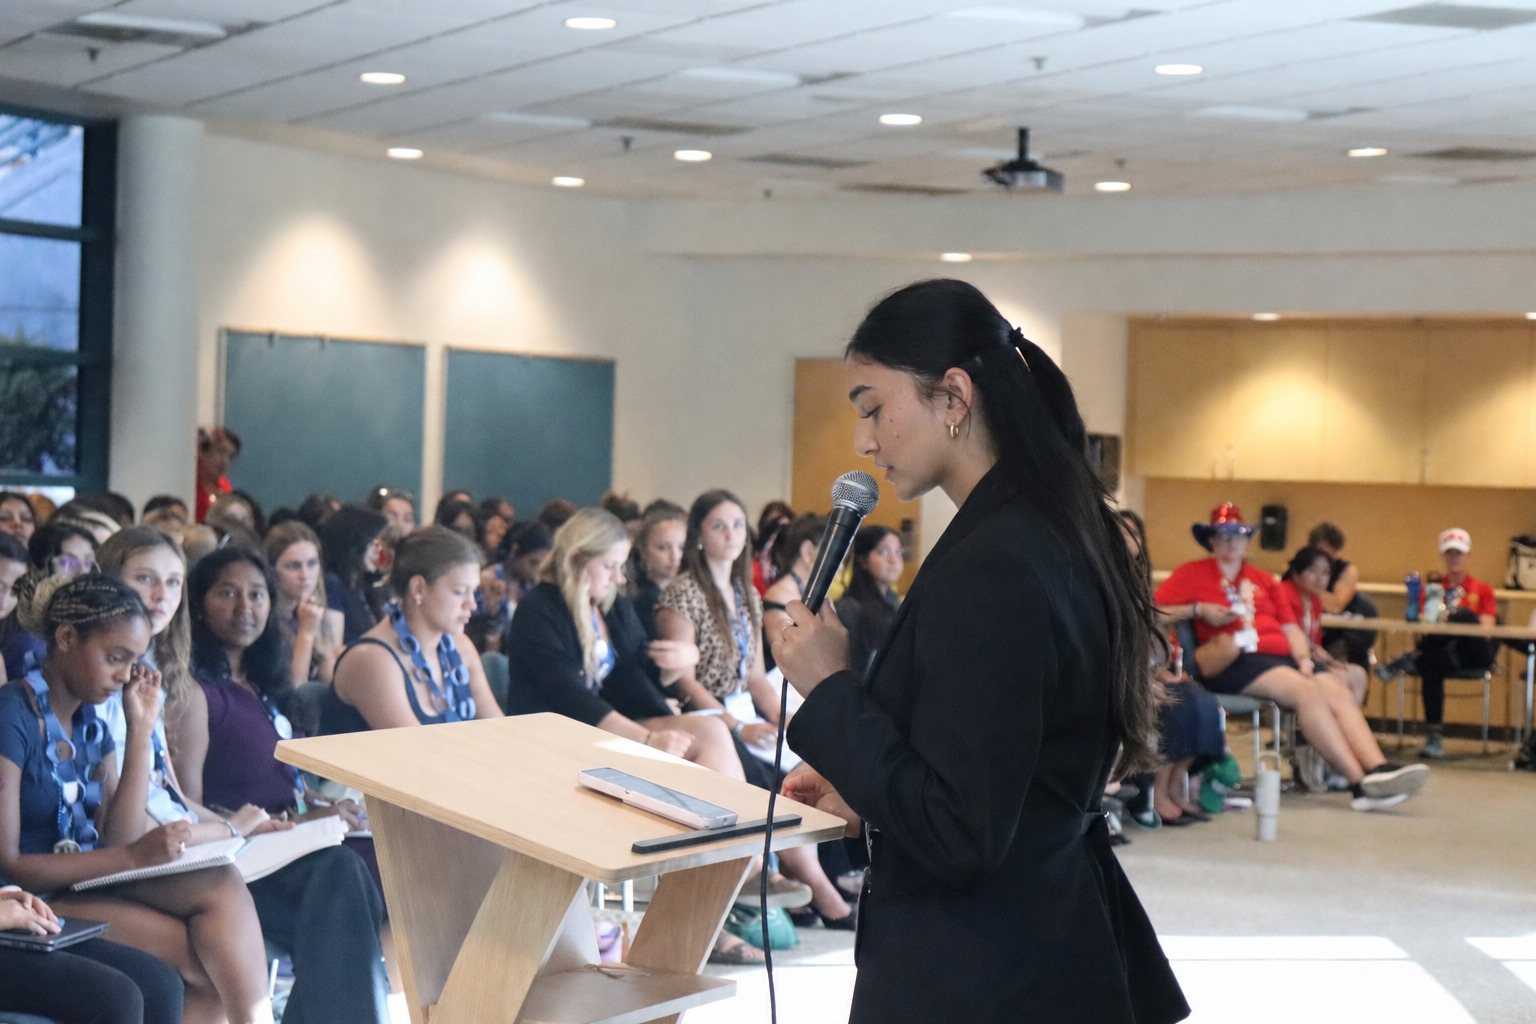
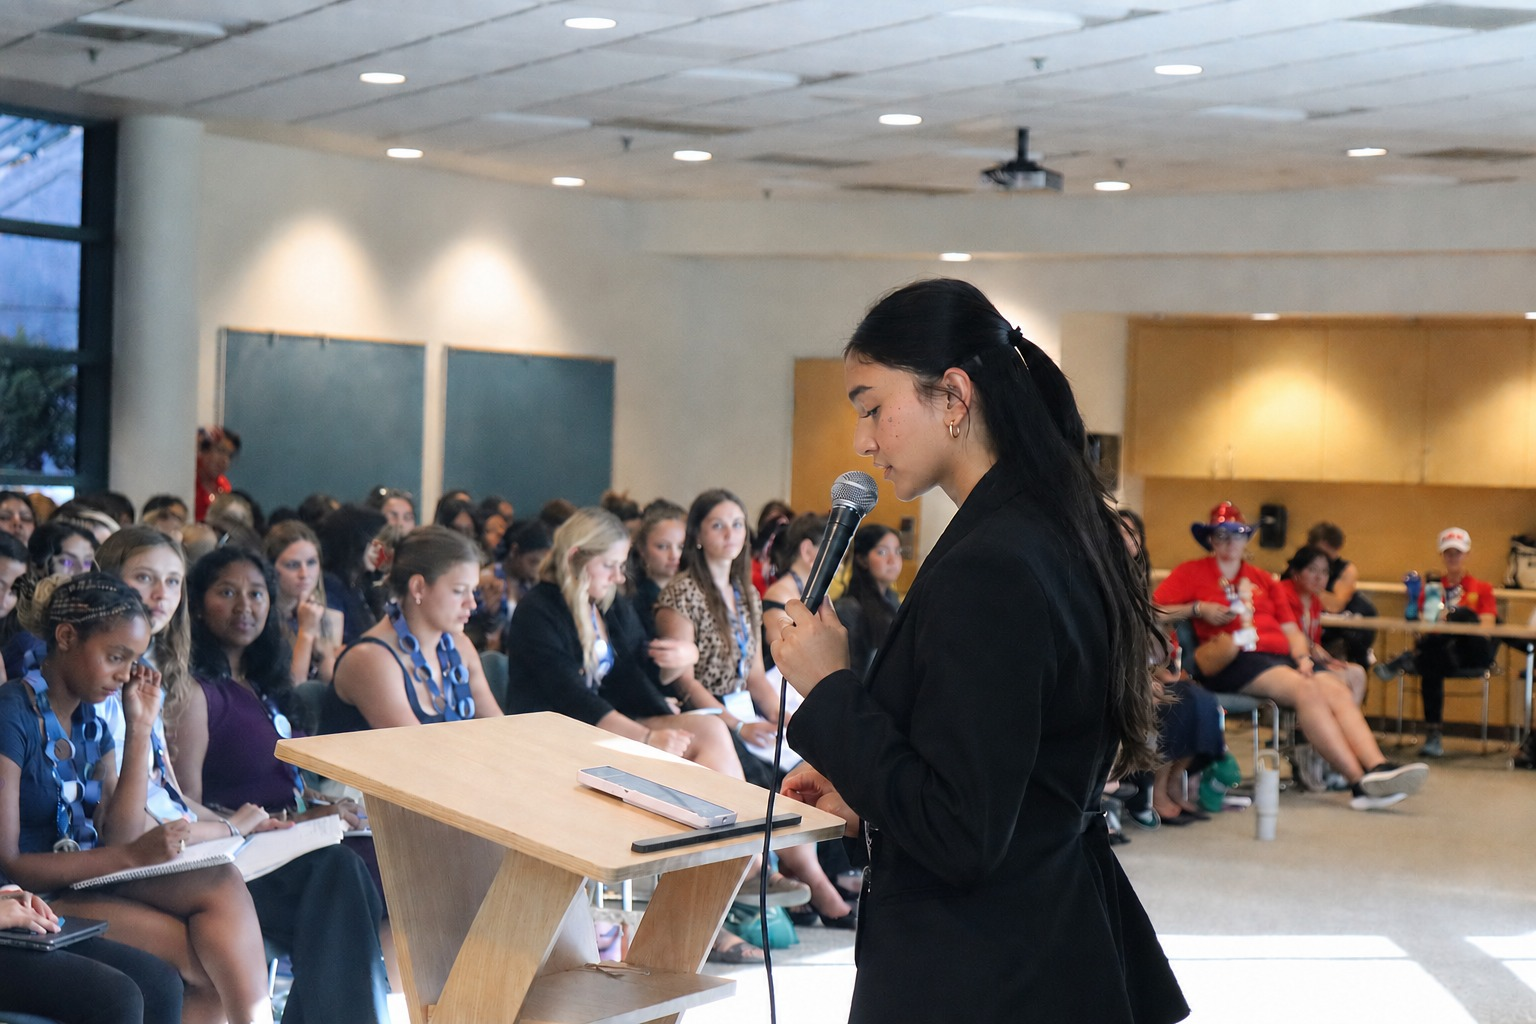
girls state final website v1

diff --git a/src/components/Positions.jsx b/src/components/Positions.jsx
@@ -30,8 +30,8 @@ export default function Positions() {
     city: {
       elected: [
         {
-          title: 'City Council Member (5)',
-          desc: 'Governing body of the city. Council members elect the Mayor from among themselves.',
+          title: 'City Council Member',
+          desc: 'Governing body of the city (5 elected). Council members elect the Mayor from among themselves.',
           bestFor: 'Leaders, collaborators',
           speech: '30 seconds',
           signatures: '3–5 signatures',
@@ -75,12 +75,12 @@ export default function Positions() {
           tip: 'If you love policy and debate, this is one of the best roles. You\'ll be writing and arguing real legislation all week.',
         },
         {
-          title: 'Assemblymember (2)',
-          desc: 'Represents your city in the State Assembly.',
+          title: 'Assembly Member',
+          desc: 'Represents your city in the State Assembly (2 elected per city).',
           bestFor: 'Debaters, policy writers',
           speech: '30 sec (primary) · 1 min (general)',
           signatures: '3–5 from your city only',
-          details: 'Two Assemblymembers are elected from each city, making 32 total in the Girls State Assembly. The Assembly is presided over by the Speaker of the House. Like Senators, Assemblymembers debate and vote on bills. Two spots per city means better odds than a Senate seat.',
+          details: 'Two Assembly Members are elected from each city, making 32 total in the Girls State Assembly. The Assembly is presided over by the Speaker of the House. Like Senators, Assembly Members debate and vote on bills. Two spots per city means better odds than a Senate seat.',
           tip: 'Running for Assembly is a great way to get into the legislature. Two spots per city means better odds than Senate.',
         },
         {
@@ -315,9 +315,9 @@ export default function Positions() {
       },
       {
         title: 'Speaker of the House',
-        desc: 'Elected by Assemblymembers at first meeting. Presides over the Assembly.',
-        details: 'The Speaker is elected by the 32 Assemblymembers at their first meeting and presides over all Assembly sessions. This is the top leadership role in the Assembly.',
-        tip: 'Build relationships with fellow Assemblymembers from Day 1 — they elect the Speaker.',
+        desc: 'Elected by Assembly Members at first meeting. Presides over the Assembly.',
+        details: 'The Speaker is elected by the 32 Assembly Members at their first meeting and presides over all Assembly sessions. This is the top leadership role in the Assembly.',
+        tip: 'Build relationships with fellow Assembly Members from Day 1 — they elect the Speaker.',
       },
       {
         title: 'Majority Floor Leader',
@@ -683,12 +683,14 @@ export default function Positions() {
   const PositionCard = ({ pos, id, showFee = false }) => {
     const isExpanded = expandedCard === id
     return (
-      <div className="card-hover rounded-xl overflow-hidden transition-all duration-200"
-           style={{
-             backgroundColor: isExpanded ? 'rgba(255,255,255,0.1)' : 'rgba(255,255,255,0.06)',
-             border: `1px solid ${isExpanded ? 'rgba(201,168,76,0.5)' : 'rgba(201,168,76,0.2)'}`,
-           }}>
-        <div className="p-5">
+      <div
+        className="card-hover rounded-xl overflow-hidden transition-all duration-200 h-full flex flex-col"
+        style={{
+          backgroundColor: isExpanded ? 'rgba(255,255,255,0.1)' : 'rgba(255,255,255,0.06)',
+          border: `1px solid ${isExpanded ? 'rgba(201,168,76,0.5)' : 'rgba(201,168,76,0.2)'}`,
+        }}
+      >
+        <div className="p-5 flex flex-col flex-1">
           <div className="flex justify-between items-start mb-1">
             <h3 style={{ color: '#C9A84C', fontFamily: '"Playfair Display", serif' }} className="font-bold text-sm">{pos.title}</h3>
             {showFee && pos.fee && (
@@ -713,7 +715,7 @@ export default function Positions() {
           <button
             type="button"
             onClick={() => toggleCard(id)}
-            className="text-xs font-medium transition-all duration-200 bg-transparent border-none cursor-pointer px-0"
+            className="text-xs font-medium transition-all duration-200 bg-transparent border-none cursor-pointer px-0 mt-auto self-start"
             style={{ color: '#C9A84C', minHeight: 44 }}
           >
             {isExpanded ? 'Show Less ↑' : 'Learn More →'}
@@ -789,7 +791,7 @@ export default function Positions() {
             </p>
             <StaggerContainer className="grid grid-cols-1 md:grid-cols-2 gap-4 mb-8">
               {positions.city.elected.map((pos, i) => (
-                <StaggerItem key={pos.title}>
+                <StaggerItem key={pos.title} className="h-full">
                   <PositionCard pos={pos} id={`city-${i}`} />
                 </StaggerItem>
               ))}
@@ -813,7 +815,7 @@ export default function Positions() {
             </p>
             <StaggerContainer className="grid grid-cols-1 md:grid-cols-2 gap-4 mb-8">
               {positions.county.elected.map((pos, i) => (
-                <StaggerItem key={pos.title}>
+                <StaggerItem key={pos.title} className="h-full">
                   <PositionCard pos={pos} id={`county-${i}`} />
                 </StaggerItem>
               ))}
@@ -838,7 +840,7 @@ export default function Positions() {
               </p>
               <StaggerContainer className="grid grid-cols-1 md:grid-cols-2 gap-4">
                 {positions.state.partisan.map((pos, i) => (
-                  <StaggerItem key={pos.title}>
+                  <StaggerItem key={pos.title} className="h-full">
                     <PositionCard pos={pos} id={`state-p-${i}`} showFee={true} />
                   </StaggerItem>
                 ))}
@@ -850,7 +852,7 @@ export default function Positions() {
               </p>
               <StaggerContainer className="grid grid-cols-1 md:grid-cols-2 gap-4">
                 {positions.state.nonPartisan.map((pos, i) => (
-                  <StaggerItem key={pos.title}>
+                  <StaggerItem key={pos.title} className="h-full">
                     <PositionCard pos={pos} id={`state-np-${i}`} showFee={true} />
                   </StaggerItem>
                 ))}
@@ -862,11 +864,11 @@ export default function Positions() {
         {activeTab === 'legislative' && (
           <div>
             <p className="text-white opacity-60 text-sm leading-relaxed mb-6 text-center">
-              The Legislature has 16 Senators (1 per city) and 32 Assemblymembers (2 per city). Click any role to learn more.
+              The Legislature has 16 Senators (1 per city) and 32 Assembly Members (2 per city). Click any role to learn more.
             </p>
             <StaggerContainer className="grid grid-cols-1 md:grid-cols-2 gap-4">
               {positions.legislative.map((pos, i) => (
-                <StaggerItem key={pos.title}>
+                <StaggerItem key={pos.title} className="h-full">
                   <PositionCard pos={pos} id={`leg-${i}`} />
                 </StaggerItem>
               ))}
@@ -895,7 +897,7 @@ export default function Positions() {
               </p>
               <StaggerContainer className="grid grid-cols-1 md:grid-cols-2 gap-4">
                 {positions.governor.staff.map((pos, i) => (
-                  <StaggerItem key={pos.title}>
+                  <StaggerItem key={pos.title} className="h-full">
                     <PositionCard pos={pos} id={`gov-staff-${i}`} />
                   </StaggerItem>
                 ))}
@@ -908,7 +910,7 @@ export default function Positions() {
               </p>
               <StaggerContainer className="grid grid-cols-1 md:grid-cols-2 lg:grid-cols-3 gap-3 mb-6">
                 {positions.governor.ceremonial.map((pos, i) => (
-                  <StaggerItem key={pos.title}>
+                  <StaggerItem key={pos.title} className="h-full">
                     <PositionCard pos={pos} id={`gov-cer-${i}`} />
                   </StaggerItem>
                 ))}

diff --git a/src/components/PrepareToGo.jsx b/src/components/PrepareToGo.jsx
@@ -130,8 +130,8 @@ const speechRows = [
   { office: 'City Treasurer', time: '30 seconds', audience: 'Full city' },
   { office: 'Senator (primary)', time: '30 seconds', audience: 'Own party in city' },
   { office: 'Senator (general)', time: '1 minute', audience: 'Full city' },
-  { office: 'Assemblymember (primary)', time: '30 seconds', audience: 'Own party in city' },
-  { office: 'Assemblymember (general)', time: '1 minute', audience: 'Full city' },
+  { office: 'Assembly Member (primary)', time: '30 seconds', audience: 'Own party in city' },
+  { office: 'Assembly Member (general)', time: '1 minute', audience: 'Full city' },
   { office: 'Party Leader (city)', time: '1 minute', audience: 'Own party at county meeting' },
   { office: 'Party Leader (county)', time: '2 minutes', audience: 'Full party at party meeting' },
   { office: 'All county offices', time: '30 seconds', audience: 'Full county' },

diff --git a/src/components/RunningForOffice.jsx b/src/components/RunningForOffice.jsx
@@ -18,7 +18,7 @@ export default function RunningForOffice() {
               { type: 'Speaker / Debater', go: 'Governor, AG, District Attorney' },
               { type: 'Organizer', go: 'City Clerk, Secretary of State' },
               { type: 'Community Builder', go: 'Mayor, Commissioner of Inspiration' },
-              { type: 'Policy Writer', go: 'Platform Committee, Assemblymember' },
+              { type: 'Policy Writer', go: 'Platform Committee, Assembly Member' },
             ].map((item) => (
               <div
                 key={item.type}

diff --git a/src/components/Footer.jsx b/src/components/Footer.jsx
@@ -166,7 +166,7 @@ export default function Footer() {
               <textarea
                 value={message}
                 onChange={(e) => setMessage(e.target.value)}
-                placeholder="A short note about your experience (optional)"
+                placeholder="A short note about your experience"
                 aria-label="Message"
                 rows={3}
                 className="w-full px-4 py-3 rounded-lg text-sm border-none outline-none resize-y"

diff --git a/src/siteConfig.js b/src/siteConfig.js
@@ -16,7 +16,7 @@ export const siteConfig = {
   formspreeEndpoint: import.meta.env.VITE_FORMSPREE_ENDPOINT || '',
   googleFormUrl:
     import.meta.env.VITE_GOOGLE_FORM_URL ||
-    'https://docs.google.com/forms/d/e/1FAIpQLSf_PLACEHOLDER_REPLACE_ME/viewform',
+    'https://forms.gle/r1npFtyzztRLExZM7',
 }
 
 export const yearNote = `Verified for ${siteConfig.verifiedYear} — always confirm dates, campus, and deadlines with your ALA unit for your year.`
